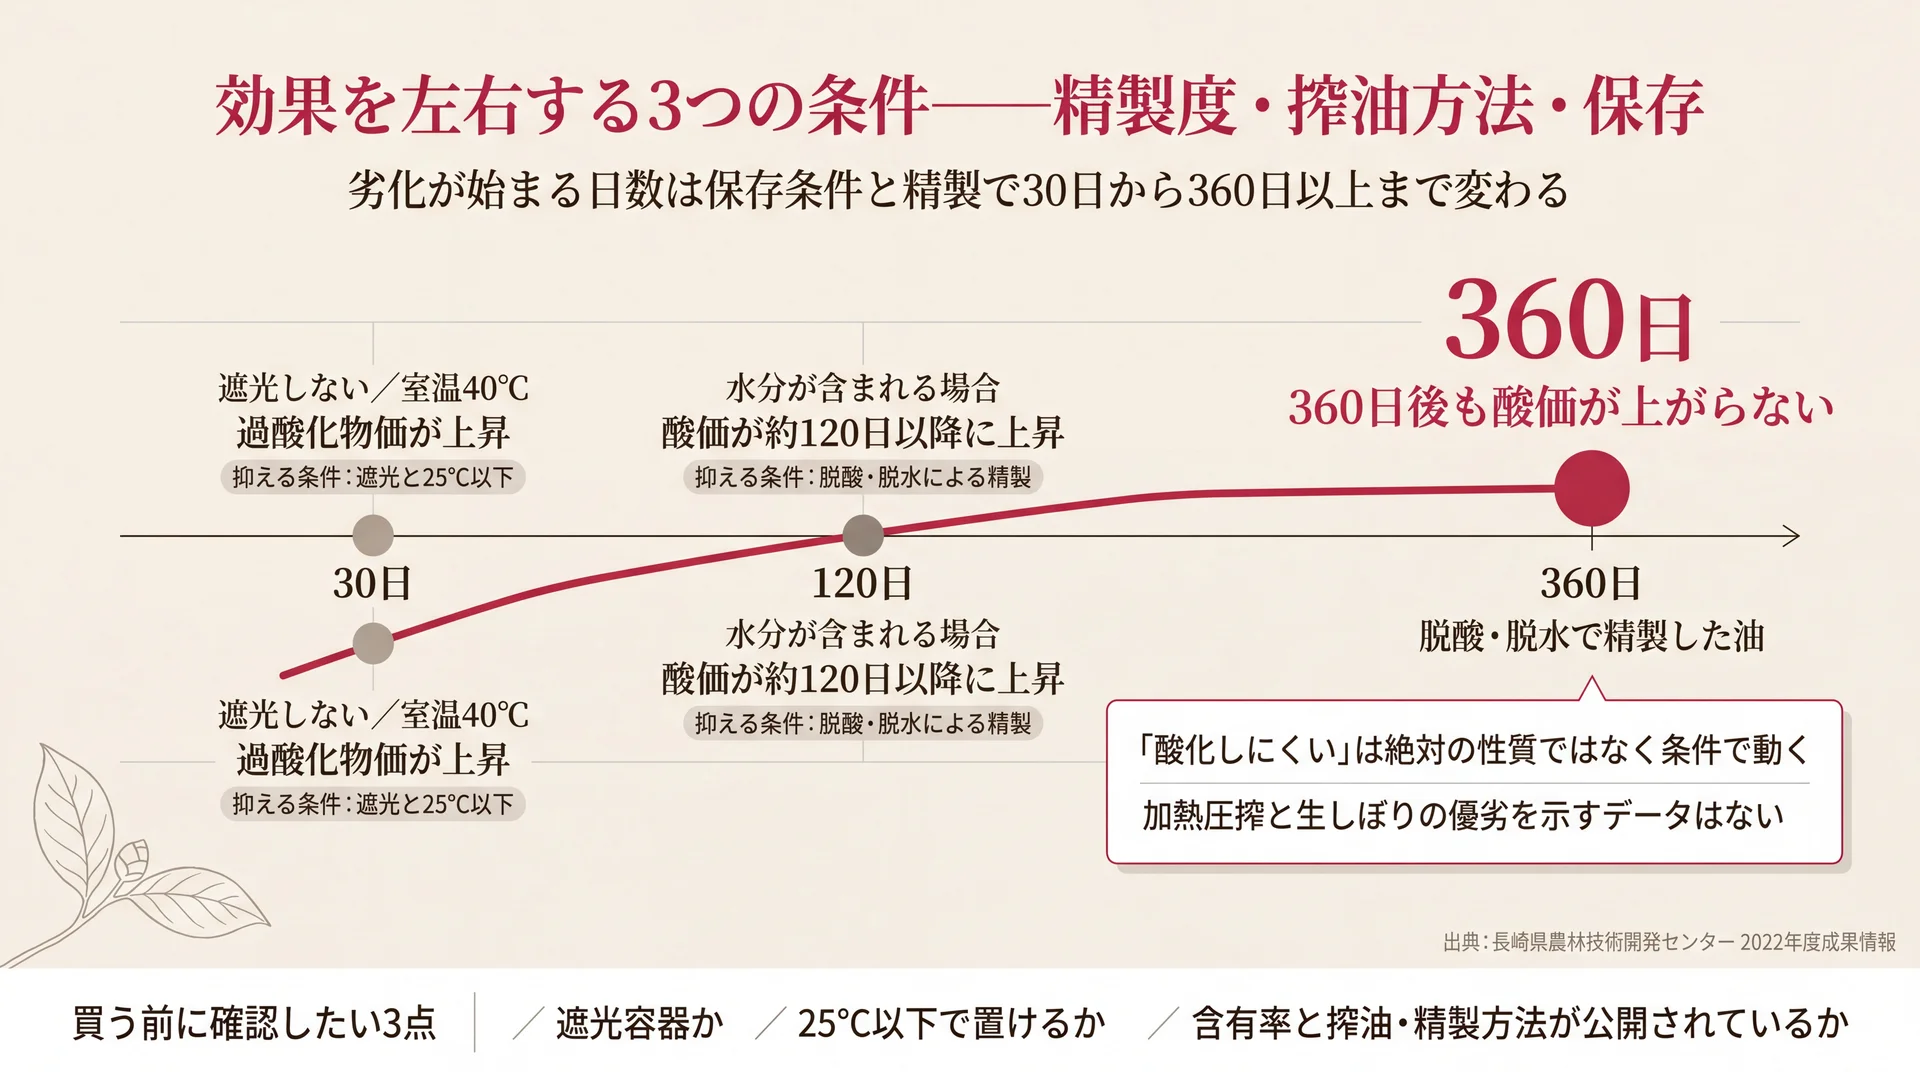
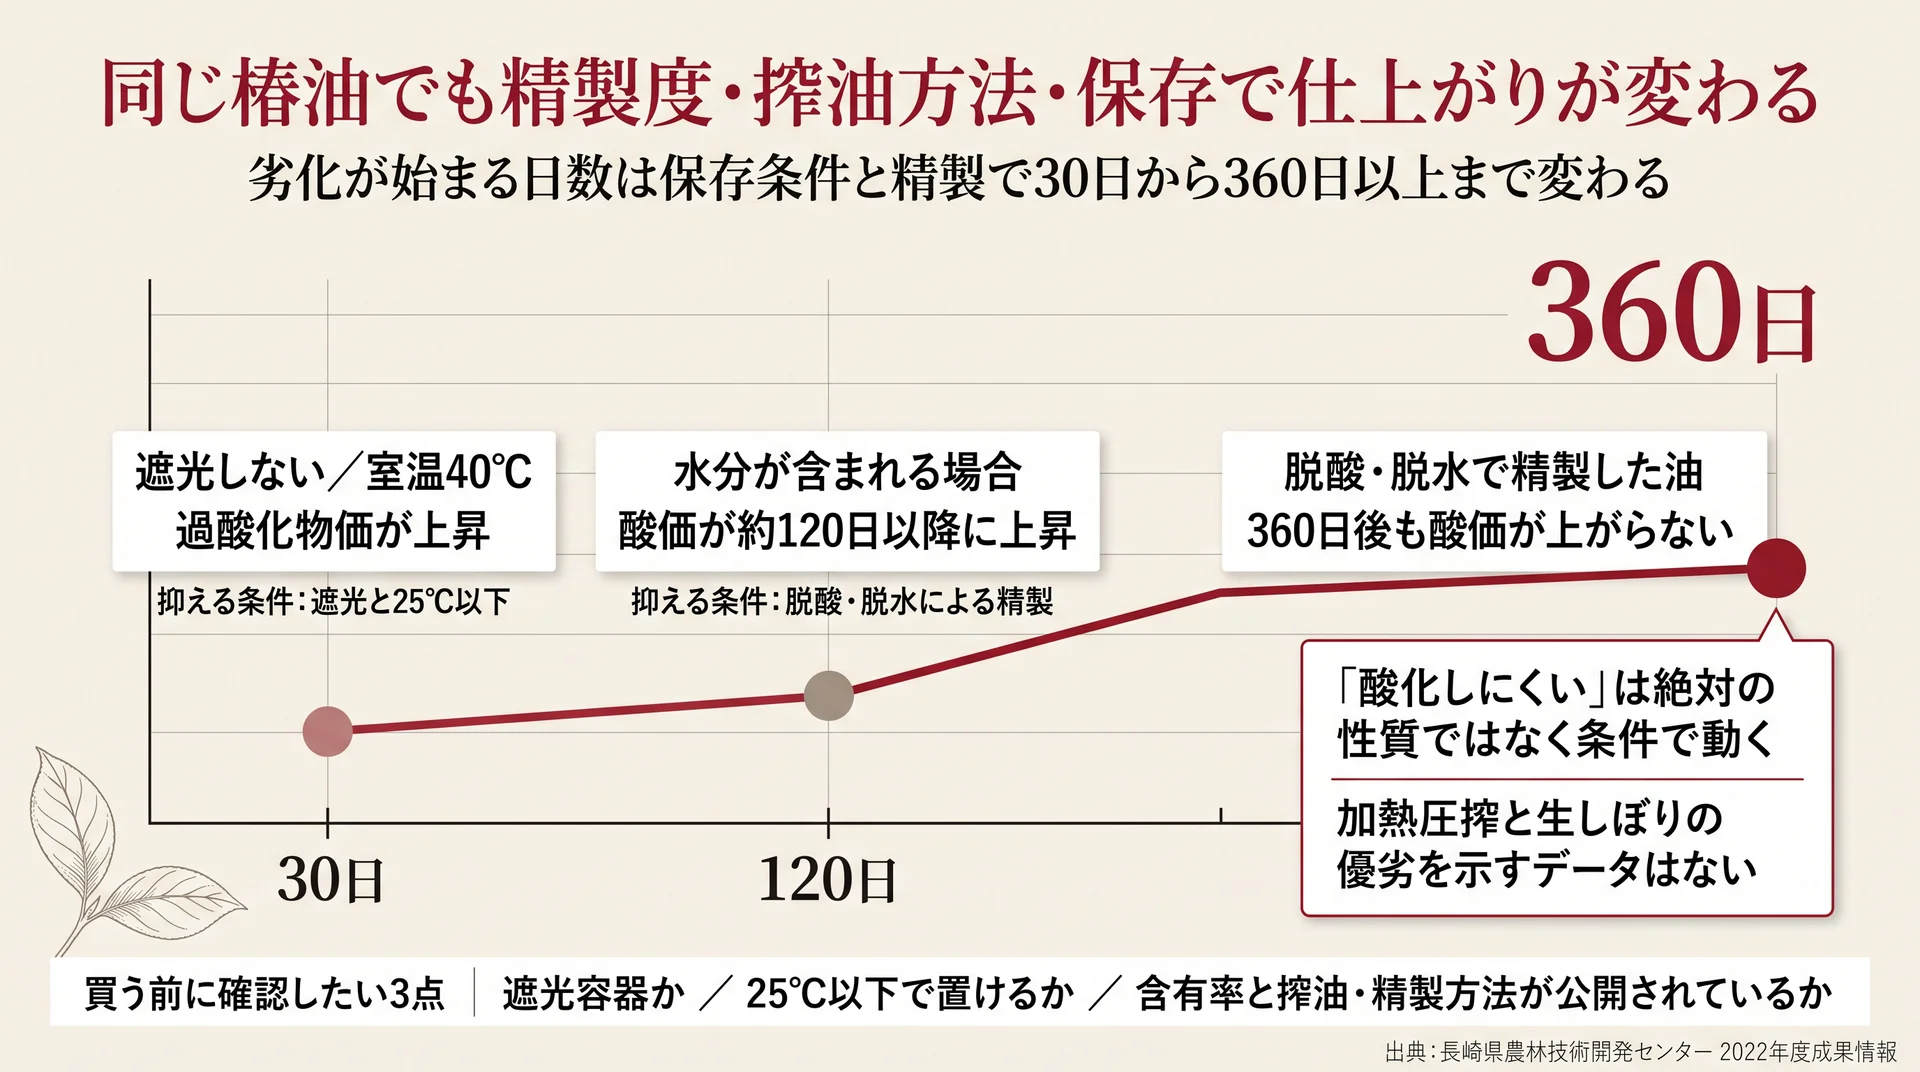
publish: tsubaki-oil-effects-v5

diff --git a/2026/08/tsubaki-oil-effects-v5.html b/2026/08/tsubaki-oil-effects-v5.html
@@ -3,9 +3,9 @@
 <head>
 <meta charset="UTF-8">
 <meta name="robots" content="noindex, nofollow">
-<title>椿油の効果とは？髪と肌への働き・期待できない変化・選ぶ基準</title>
+<title>椿油の効果とは？髪と肌への働きと期待できる範囲・選ぶ基準</title>
 <meta name="viewport" content="width=device-width,initial-scale=1">
-<meta property="og:title" content="椿油の効果とは？髪と肌への働き・期待できない変化・選ぶ基準">
+<meta property="og:title" content="椿油の効果とは？髪と肌への働きと期待できる範囲・選ぶ基準">
 </head>
 <body style="font-family:-apple-system,BlinkMacSystemFont,'Hiragino Kaku Gothic ProN','Yu Gothic','Meiryo',sans-serif; line-height:1.7; color:#1f2328; max-width:820px; margin:0 auto; padding:32px 24px; background:#fff;">
 <style>
@@ -54,7 +54,7 @@
 .column-contact-block img{display:block;width:100%;height:auto;margin:0;border-radius:0;}
 .column-contact-block p{color:#fff;text-align:center;margin:24px 0;}
 .column-contact-block p:not(.btn-gra){font-size:20px;font-weight:700;line-height:1.5;}
-</style><h1 style="font-size:32px; font-weight:700; margin:24px 0 16px; padding-bottom:10px; border-bottom:1px solid #eaeef2; line-height:1.3;">椿油の効果とは？髪と肌への働き・期待できない変化・選ぶ基準</h1>
+</style><h1 style="font-size:32px; font-weight:700; margin:24px 0 16px; padding-bottom:10px; border-bottom:1px solid #eaeef2; line-height:1.3;">椿油の効果とは？髪と肌への働きと期待できる範囲・選ぶ基準</h1>
 <p style="margin:14px 0; line-height:1.7;">こんにちは！五島の椿スタッフです。</p>
 <p style="margin:14px 0; line-height:1.7;">「椿油って、結局どんな効果があるの？」<br>「髪にはいいらしいけど、顔に塗っても平気なのかな」</p>
 <p style="margin:14px 0; line-height:1.7;">椿油の効果の中心は、保湿と保護です。脂肪酸の約86%を占めるオレイン酸が肌や髪の表面にとどまり、水分の蒸発を抑えます（<a href="https://www.pref.nagasaki.jp/e-nourin/nougi/theme/result/R4seika-jouhou/gyousei/G-04-06.pdf" style="color:#0969da; text-decoration:none; border-bottom:1px solid #eaeef2;">長崎県農林技術開発センター</a>、2022年度成果情報）。髪と肌では働き方が違い、同じ椿油でも精製や保存の状態で仕上がりが変わります。</p>
@@ -150,7 +150,7 @@
 <!-- /wp:button --></div>
 <!-- /wp:buttons -->
 </div>
-<!-- /wp:group --><h2 style="font-size:24px; font-weight:600; margin:32px 0 16px; padding-bottom:8px; border-bottom:1px solid #eaeef2; line-height:1.3;">椿油に期待できない変化——白髪とシミ</h2>
+<!-- /wp:group --><h2 style="font-size:24px; font-weight:600; margin:32px 0 16px; padding-bottom:8px; border-bottom:1px solid #eaeef2; line-height:1.3;">白髪やシミはどうなる？椿油に期待できる範囲</h2>
 <p style="margin:14px 0; line-height:1.7;"><img src="https://shun-toda.github.io/html-publish/2026/08/tsubaki-oil-effects-v5/h2_03_%E7%99%BD%E9%AB%AA_%E3%82%B7%E3%83%9F.webp" alt="化粧品の効能56項目のうち椿油に対応する項目数を示し、白髪を黒くする・シミを消すが範囲外にあることを対比した棒グラフ" loading="lazy" style="max-width:100%; height:auto; display:block; margin:16px auto; border-radius:6px;" /><br><em>化粧品が表示できる56項目に「白髪を黒くする」「シミを消す」は含まれない（出典: 厚生労働省「化粧品の効能の範囲の改正について」別表第1）</em></p>
 <p style="margin:14px 0; line-height:1.7;">白髪が黒くなる、シミが消えるといった変化は、椿油には期待できません。椿油は表面に残って水分の蒸発を抑える油分であり、毛の色をつくる仕組みや、できあがった色ムラそのものに働きかける成分ではないためです。</p>
 <p style="margin:14px 0; line-height:1.7;">裏づけは、化粧品で表示できる効能の一覧にあります。厚生労働省が定める別表第1は全<span style="color:red"><strong>56項目</strong></span>で、「白髪を黒くする」「シミを消す」に相当する項目は<strong>1つも含まれていません</strong>（<a href="https://www.mhlw.go.jp/file/06-Seisakujouhou-11120000-Iyakushokuhinkyoku/kesyouhin_hanni_20111.pdf" style="color:#0969da; text-decoration:none; border-bottom:1px solid #eaeef2;">厚生労働省</a>、平成23年7月21日）。日やけについても、認められているのは「日やけによるシミ、ソバカスを防ぐ」という予防の表現までです。</p>
@@ -172,9 +172,9 @@
 </tbody></table></div>
 <p style="margin:14px 0; line-height:1.7;">データ出典: 上記の厚生労働省通知 別表第1から、椿油の働きに対応する項目を抜き出したもの。</p>
 <p style="margin:14px 0; line-height:1.7;"><strong>効能の範囲は表示のルール</strong>であり、作用の有無そのものを証明する資料ではありません。それでも、化粧品として確認されている働きの外側にあることは、この一覧で確かめられます。<strong>白髪や色ムラを目的にするなら別の手段を検討し、椿油はうるおいと保護の目的に絞るのが、遠回りしない選び方です。</strong></p>
-<h2 style="font-size:24px; font-weight:600; margin:32px 0 16px; padding-bottom:8px; border-bottom:1px solid #eaeef2; line-height:1.3;">効果を左右する3つの条件——精製度・搾油方法・保存</h2>
+<h2 style="font-size:24px; font-weight:600; margin:32px 0 16px; padding-bottom:8px; border-bottom:1px solid #eaeef2; line-height:1.3;">同じ椿油でも精製度・搾油方法・保存で仕上がりが変わる</h2>
 <p style="margin:14px 0; line-height:1.7;"><img src="https://shun-toda.github.io/html-publish/2026/08/tsubaki-oil-effects-v5/h2_04_%E7%B2%BE%E8%A3%BD_%E4%BF%9D%E5%AD%98.webp" alt="保存条件と精製度によって椿油の劣化が始まる日数が30日から360日以上まで変わることを示したタイムライン図" loading="lazy" style="max-width:100%; height:auto; display:block; margin:16px auto; border-radius:6px;" /><br><em>劣化が始まる日数は保存条件と精製で30日から360日以上まで変わる（出典: 長崎県農林技術開発センター 2022年度成果情報）</em></p>
-<p style="margin:14px 0; line-height:1.7;">同じ椿油でも、精製度・搾油方法・保存状態で使用感と劣化の進み方が変わります。長崎県農林技術開発センターは、ツバキ油の酸価・過酸化物価・臭気指数がどの条件で上がるかを調べていて、「酸化しにくい」がどんな条件でも成り立つ性質ではないことを数値で示しています（長崎県農林技術開発センター、2022年度成果情報）。</p>
+<p style="margin:14px 0; line-height:1.7;">具体的に変わるのは、使用感と劣化の進み方です。長崎県農林技術開発センターは、ツバキ油の酸価・過酸化物価・臭気指数がどの条件で上がるかを調べていて、「酸化しにくい」がどんな条件でも成り立つ性質ではないことを数値で示しています（長崎県農林技術開発センター、2022年度成果情報）。</p>
 <h3 style="font-size:20px; font-weight:600; margin:24px 0 12px; line-height:1.3;">精製度——含有率と酸価の上がり方</h3>
 <p style="margin:14px 0; line-height:1.7;">酸価は、<strong>油の精製度合いや加熱による劣化の程度</strong>を示す数値です。同センターの調査では、水分が含まれる場合の酸価は<span style="color:red"><strong>約120日以降</strong></span>に上がっていきました。一方、脱酸と脱水による精製を行った油は<span style="color:red"><strong>360日後</strong></span>でも酸価が上がりませんでした。</p>
 <p style="margin:14px 0; line-height:1.7;">つまり精製は、においや色を整えるだけの工程ではなく、水分を抜いて劣化を先に延ばす工程でもあるわけです。私たちは椿のオイルの濾過を8回重ね、オレイン酸の含有率を約85%まで高めています（<a href="https://gotonotsubaki.co.jp/shop/pages/tsubaki" style="color:#0969da; text-decoration:none; border-bottom:1px solid #eaeef2;">五島の椿</a>）。</p>
@@ -186,32 +186,28 @@
 <div style="overflow-x:auto; margin:18px 0;"><table style="border-collapse:collapse; width:100%; font-size:14px;">
 <thead style="background:#f6f8fa;">
 <tr>
-<th style="border:1px solid #d0d7de; padding:8px 12px; text-align:left; font-weight:600;">劣化の指標</th>
-<th style="border:1px solid #d0d7de; padding:8px 12px; text-align:left; font-weight:600;">何を示すか</th>
-<th style="border:1px solid #d0d7de; padding:8px 12px; text-align:left; font-weight:600;">上がるきっかけ</th>
-<th style="border:1px solid #d0d7de; padding:8px 12px; text-align:left; font-weight:600;">抑える条件</th>
+<th style="border:1px solid #d0d7de; padding:8px 12px; text-align:left; font-weight:600;">条件</th>
+<th style="border:1px solid #d0d7de; padding:8px 12px; text-align:left; font-weight:600;">何が変わるか</th>
+<th style="border:1px solid #d0d7de; padding:8px 12px; text-align:left; font-weight:600;">買う前・使う上での確認点</th>
 </tr>
 </thead>
 <tbody><tr>
-<td style="border:1px solid #d0d7de; padding:8px 12px;">酸価</td>
-<td style="border:1px solid #d0d7de; padding:8px 12px;">精製度合いや加熱による劣化の程度</td>
-<td style="border:1px solid #d0d7de; padding:8px 12px;">水分が含まれる場合、約120日以降に上昇</td>
-<td style="border:1px solid #d0d7de; padding:8px 12px;">脱酸・脱水による精製</td>
+<td style="border:1px solid #d0d7de; padding:8px 12px;">精製度</td>
+<td style="border:1px solid #d0d7de; padding:8px 12px;">脱酸・脱水まで精製した油は360日後も酸価（劣化の指標）が上がらず、水分が残る油は約120日以降に上昇する</td>
+<td style="border:1px solid #d0d7de; padding:8px 12px;">搾油・精製の方法と含有率が公開されているか</td>
 </tr>
 <tr>
-<td style="border:1px solid #d0d7de; padding:8px 12px;">過酸化物価</td>
-<td style="border:1px solid #d0d7de; padding:8px 12px;">保存状態や自動酸化による劣化の程度</td>
-<td style="border:1px solid #d0d7de; padding:8px 12px;">遮光しない、または室温40℃で30日以降に上昇</td>
-<td style="border:1px solid #d0d7de; padding:8px 12px;">遮光と25℃以下での保存</td>
+<td style="border:1px solid #d0d7de; padding:8px 12px;">搾油方法</td>
+<td style="border:1px solid #d0d7de; padding:8px 12px;">加熱圧搾は搾れる量が多く、生しぼりは熱で失われやすい成分を残せる（優劣を示すデータはない）</td>
+<td style="border:1px solid #d0d7de; padding:8px 12px;">加熱圧搾か生しぼりかが表記されているか</td>
 </tr>
 <tr>
-<td style="border:1px solid #d0d7de; padding:8px 12px;">臭気指数</td>
-<td style="border:1px solid #d0d7de; padding:8px 12px;">におい立ちの強さ</td>
-<td style="border:1px solid #d0d7de; padding:8px 12px;">室温40℃かつ光が当たる条件で高くなる</td>
-<td style="border:1px solid #d0d7de; padding:8px 12px;">遮光と低温での保存</td>
+<td style="border:1px solid #d0d7de; padding:8px 12px;">保存</td>
+<td style="border:1px solid #d0d7de; padding:8px 12px;">遮光しない・室温40℃では過酸化物価（酸化の指標）が30日以降に上昇し、においも40℃×光で強まる</td>
+<td style="border:1px solid #d0d7de; padding:8px 12px;">遮光容器か、25℃以下に置けるか</td>
 </tr>
 </tbody></table></div>
-<p style="margin:14px 0; line-height:1.7;">データ出典: 上記の2022年度成果情報。同資料は個々の製品の品質を保証するものではないと注記されています。</p>
+<p style="margin:14px 0; line-height:1.7;">データ出典: 精製度・保存の数値は上記の2022年度成果情報（同資料は個々の製品の品質を保証するものではないと注記）。搾油方法は同資料に優劣データがないため、本文の整理を要約したものです。</p>
 <p style="margin:14px 0; line-height:1.7;">差は原料の段階でも出るんです。同センターの2012年度成果情報では、8月15日に対して9月8日の1粒あたりの油の含有量に約3倍の差があったと報告されました（<a href="https://www.pref.nagasaki.jp/e-nourin/nougi/theme/result/H24seika-jouhou/shidou/S-24-28.pdf" style="color:#0969da; text-decoration:none; border-bottom:1px solid #eaeef2;">長崎県農林技術開発センター</a>、2012年度成果情報）。私たちも椿の実は8月下旬から9月にかけて、熟した木から順に手づみで収穫しているんです。</p>
 <h3 style="font-size:20px; font-weight:600; margin:24px 0 12px; line-height:1.3;">買う前に確認したい3つのこと</h3>
 <p style="margin:14px 0; line-height:1.7;">一般には「椿油は酸化しにくい油」と紹介されます。でもデータ上は、その性質は保存条件と精製度しだいなんです。含有率の幅と、遮光なし・40℃で30日から進む酸化を突き合わせると、比べるべきなのは産地のイメージや価格ではなく、油の状態を管理できるかどうかだと評価できます。</p>
@@ -228,7 +224,7 @@
 <p style="margin:14px 0; line-height:1.7;"><strong>Q. 開封した椿油はいつまで使えますか？</strong><br>A. 保存条件で変わります。遮光しない場合や室温40℃では過酸化物価が30日以降に上がりました（長崎県農林技術開発センター、2022年度成果情報）。商品の使用期限の表示に従い、遮光と25℃以下の置き場所を確保してください。</p>
 <p style="margin:14px 0; line-height:1.7;"><strong>Q. 食用の椿油を髪や肌に使えますか？</strong><br>A. おすすめしません。食用油と化粧品では適用される基準が違い、化粧品は製造販売の許可を受けた事業者が作っています。肌や髪に使うなら、化粧品として販売されているものを選んでください。</p>
 <h2 style="font-size:24px; font-weight:600; margin:32px 0 16px; padding-bottom:8px; border-bottom:1px solid #eaeef2; line-height:1.3;">まとめ</h2>
-<p style="margin:14px 0; line-height:1.7;">椿油の効果を判断する軸は3つに絞れます。1つめは、脂肪酸の約86%を占めるオレイン酸が表面にとどまり、水分の蒸発を抑えるという働きの中身。2つめは、髪ではまとまりとツヤ、肌ではうるおいと保護というように、部位で期待できる範囲が違うこと。3つめは、白髪や色ムラは椿油の役割ではなく、効果は精製度・搾油方法・保存で変わるという点です。この3つで見れば、<strong>次の一本を自分の基準で選べます。</strong></p>
+<p style="margin:14px 0; line-height:1.7;">椿油の効果を判断する際には、次の3つを確認すればOKです。1つめは、脂肪酸の約86%を占めるオレイン酸が表面にとどまり、水分の蒸発を抑えるという働きの中身。2つめは、髪ではまとまりとツヤ、肌ではうるおいと保護というように、部位で期待できる範囲が違うこと。3つめは、白髪や色ムラは椿油の役割ではなく、効果は精製度・搾油方法・保存で変わるという点です。この3つで見れば、<strong>次の一本を自分の基準で選べます。</strong></p>
 <!-- wp:group {"style":{"border":{"radius":"16px","color":"#F0EEEC","style":"solid","width":"1px"},"spacing":{"padding":{"top":"24px","right":"20px","bottom":"24px","left":"20px"}}},"layout":{"type":"constrained"}} -->
 <div class="wp-block-group has-border-color" style="border-color:#F0EEEC;border-style:solid;border-width:1px;border-radius:16px;padding-top:24px;padding-right:20px;padding-bottom:24px;padding-left:20px">
 <!-- wp:paragraph {"align":"center","style":{"typography":{"fontWeight":"700"}}} -->
